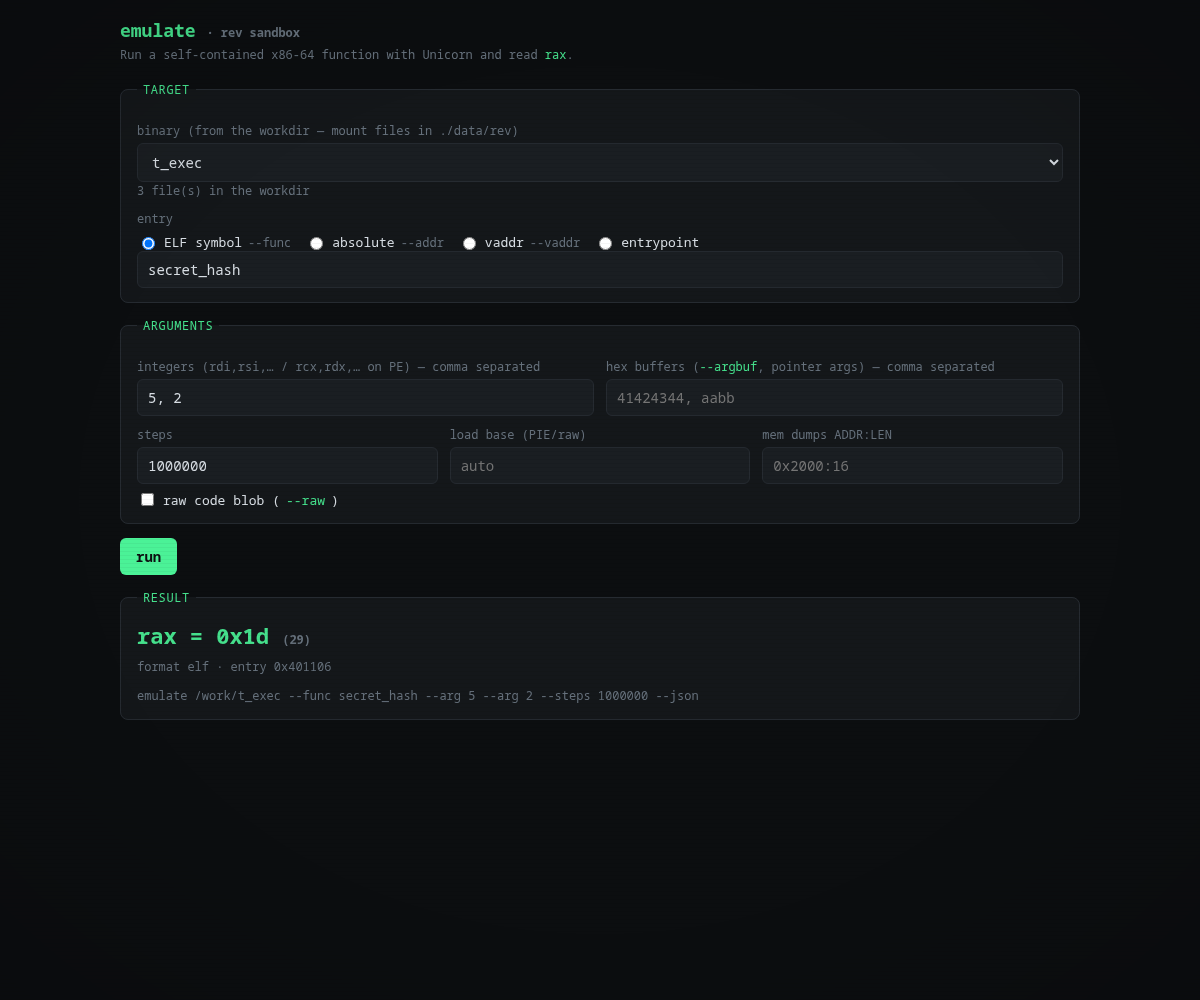
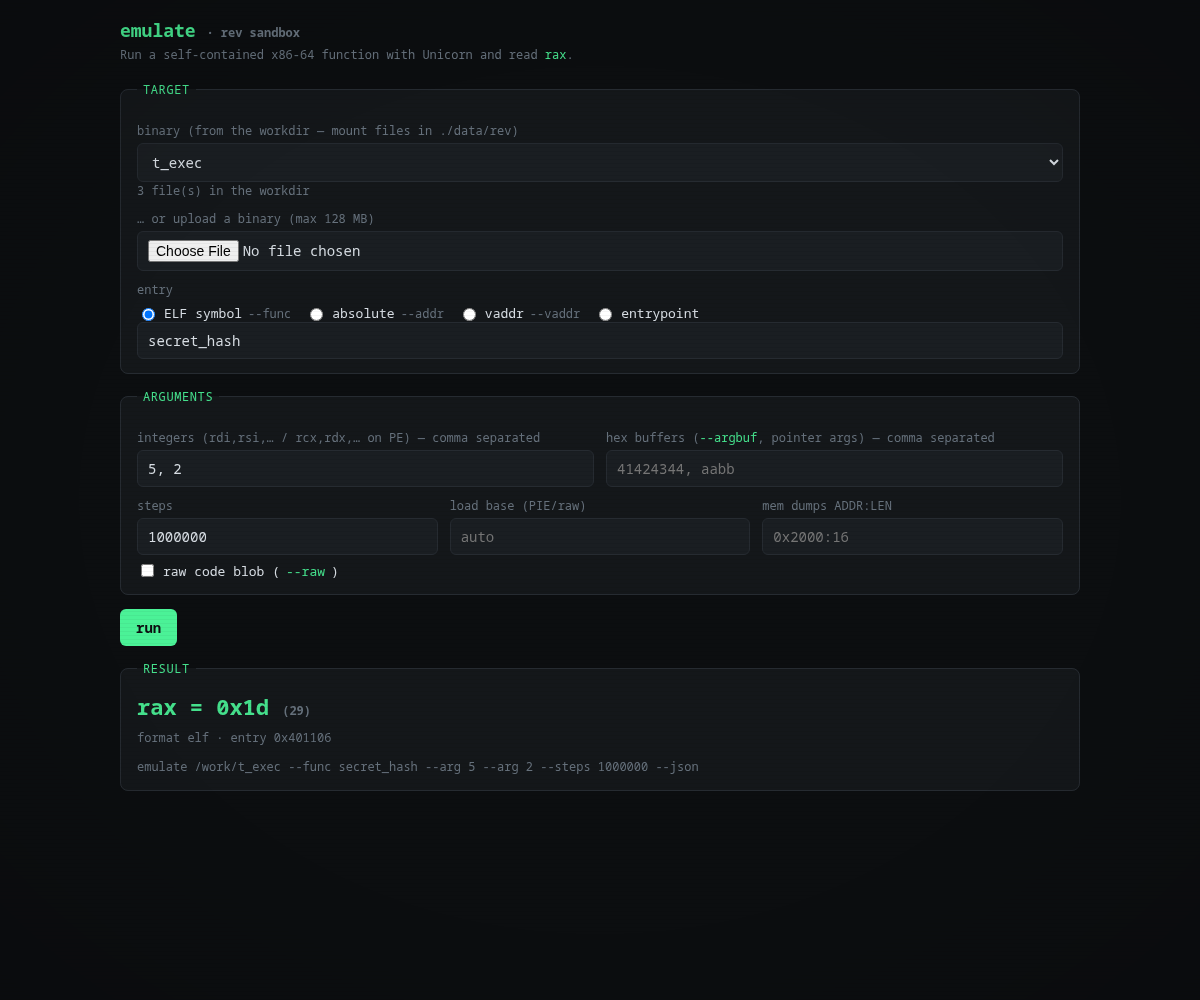
feat(rev): upload binaries into the emulate GUI from the browser
The emulate web GUI now takes a file directly (raw POST body + X-Filename; name
sanitized with basename, 128 MB cap) in addition to picking an existing file
from ./data/rev. README EN/IT reference the screenshot; tasks updated.

diff --git a/rev/emulate_web.py b/rev/emulate_web.py
@@ -27,12 +27,14 @@ from urllib.parse import urlparse
 EMULATE = os.environ.get("EMULATE_BIN", "/usr/local/bin/emulate")
 WORK = os.environ.get("EMULATE_WORK", "/work")
 MAX_BODY = 64 * 1024
+MAX_UPLOAD = 128 * 1024 * 1024
 RUN_TIMEOUT = int(os.environ.get("EMULATE_TIMEOUT", "30"))
 MAX_STEPS = 50_000_000
 
 _NUM = re.compile(r"^-?(0x[0-9a-fA-F]+|\d+)$")
 _HEX = re.compile(r"^[0-9a-fA-F\s]*$")
 _MEM = re.compile(r"^-?(0x[0-9a-fA-F]+|\d+):-?(0x[0-9a-fA-F]+|\d+)$")
+_NAME = re.compile(r"^[A-Za-z0-9][A-Za-z0-9._+-]{0,127}$")
 
 
 def list_files(root: str) -> list[str]:
@@ -173,6 +175,8 @@ PAGE = r"""<!doctype html>
       <label for="binary">binary (from the workdir — mount files in ./data/rev)</label>
       <select id="binary" required aria-label="binary from the workdir"></select>
       <div class="hint" id="filehint">loading…</div>
+      <label for="upload">… or upload a binary (max 128 MB)</label>
+      <input type="file" id="upload" aria-label="upload a binary into the workdir">
 
       <div class="cap">entry</div>
       <div class="modes" role="group" aria-label="how to reach the routine">
@@ -235,6 +239,21 @@ async function loadFiles(){
   }catch(e){ $('filehint').textContent = 'could not list files: '+e; }
 }
 loadFiles();
+
+$('upload').addEventListener('change', async ev=>{
+  const file = ev.target.files[0];
+  if(!file) return;
+  $('filehint').textContent = 'uploading ' + file.name + ' …';
+  try{
+    const r = await fetch('api/upload', {method:'POST', headers:{'X-Filename': file.name}, body: file});
+    const j = await r.json();
+    if(!j.ok) throw new Error(j.error || ('HTTP '+r.status));
+    await loadFiles();
+    $('binary').value = j.name;
+    $('filehint').textContent = 'uploaded ' + j.name + ' (' + j.size + ' bytes)';
+  }catch(e){ $('filehint').textContent = 'upload failed: ' + e; }
+  ev.target.value = '';
+});
 
 $('f').addEventListener('submit', async ev=>{
   ev.preventDefault();
@@ -309,7 +328,11 @@ class Handler(BaseHTTPRequestHandler):
             self._send(404, b"not found", "text/plain")
 
     def do_POST(self) -> None:
-        if urlparse(self.path).path != "/api/run":
+        path = urlparse(self.path).path
+        if path == "/api/upload":
+            self._upload()
+            return
+        if path != "/api/run":
             self._send(404, b"not found", "text/plain")
             return
         length = int(self.headers.get("Content-Length") or 0)
@@ -327,6 +350,30 @@ class Handler(BaseHTTPRequestHandler):
             self._json(200, {"ok": False, "error": str(exc)})
         except Exception as exc:  # pragma: no cover
             self._json(200, {"ok": False, "error": f"{type(exc).__name__}: {exc}"})
+
+    def _upload(self) -> None:
+        name = os.path.basename((self.headers.get("X-Filename") or "").strip())
+        if not name or name in (".", "..") or not _NAME.match(name):
+            self._json(400, {"ok": False, "error": "missing or invalid X-Filename"})
+            return
+        length = int(self.headers.get("Content-Length") or 0)
+        if length <= 0:
+            self._json(400, {"ok": False, "error": "empty upload"})
+            return
+        if length > MAX_UPLOAD:
+            self._json(413, {"ok": False,
+                             "error": f"file too large (max {MAX_UPLOAD // (1024 * 1024)} MB)"})
+            return
+        dest = os.path.join(WORK, name)
+        remaining = length
+        with open(dest, "wb") as fh:
+            while remaining > 0:
+                chunk = self.rfile.read(min(65536, remaining))
+                if not chunk:
+                    break
+                fh.write(chunk)
+                remaining -= len(chunk)
+        self._json(200, {"ok": True, "name": name, "size": length})
 
 
 def main() -> int:

diff --git a/tasks/todo.md b/tasks/todo.md
@@ -184,9 +184,11 @@
       **GUI web** (`rev/emulate_web.py`, solo stdlib) servita dal container `rev`
       sulla porta **19020** (profilo `rev`, dietro proxy localhost, tema = token
       dashboard): scegli il binario da `./data/rev`, funzione/indirizzo e argomenti
-      → `rax`. Testato in browser (console pulita) e end-to-end (ELF non-PIE/PIE,
-      blob raw, PE; + verifica via API). Aggiornati `compose.yaml` (`rev-web-proxy`),
-      `.env.example` (`REV_WEB_PORT`), dashboard e README EN/IT.
+      → `rax`. La GUI ha anche l'**upload** del binario dal browser (max 128 MB,
+      nome sanitizzato) oltre alla scelta da `./data/rev`. Testato in browser
+      (console pulita) e end-to-end (ELF non-PIE/PIE, blob raw, PE; + verifica via
+      API). Aggiornati `compose.yaml` (`rev-web-proxy`), `.env.example`
+      (`REV_WEB_PORT`), dashboard e README EN/IT (con screenshot).
 
 ### Da fare (prossima sessione)
 - [ ] **Prossimo miglioramento (da scegliere, sessione breve)**: (a) **emulazione**

diff --git a/README.md b/README.md
@@ -245,6 +245,10 @@ http://localhost:19014 (localhost only).
 
 <img src="docs/screenshots/stegsuite-mobile.png" alt="Mobile layout" width="300">
 
+**Rev sandbox — `emulate` web GUI (run a self-contained function with Unicorn):**
+
+![emulate GUI](docs/screenshots/rev-emulate.png)
+
 ## ⚙ Configuration
 
 Everything is driven by `.env` (created from `.env.example`):

diff --git a/README.it.md b/README.it.md
@@ -240,6 +240,10 @@ http://localhost:19014 (solo localhost).
 
 <img src="docs/screenshots/stegsuite-mobile.png" alt="Layout mobile" width="300">
 
+**Sandbox rev — GUI web `emulate` (esegue una funzione self-contained con Unicorn):**
+
+![GUI emulate](docs/screenshots/rev-emulate.png)
+
 ## ⚙ Configurazione
 
 Tutto è guidato da `.env` (creato da `.env.example`):
